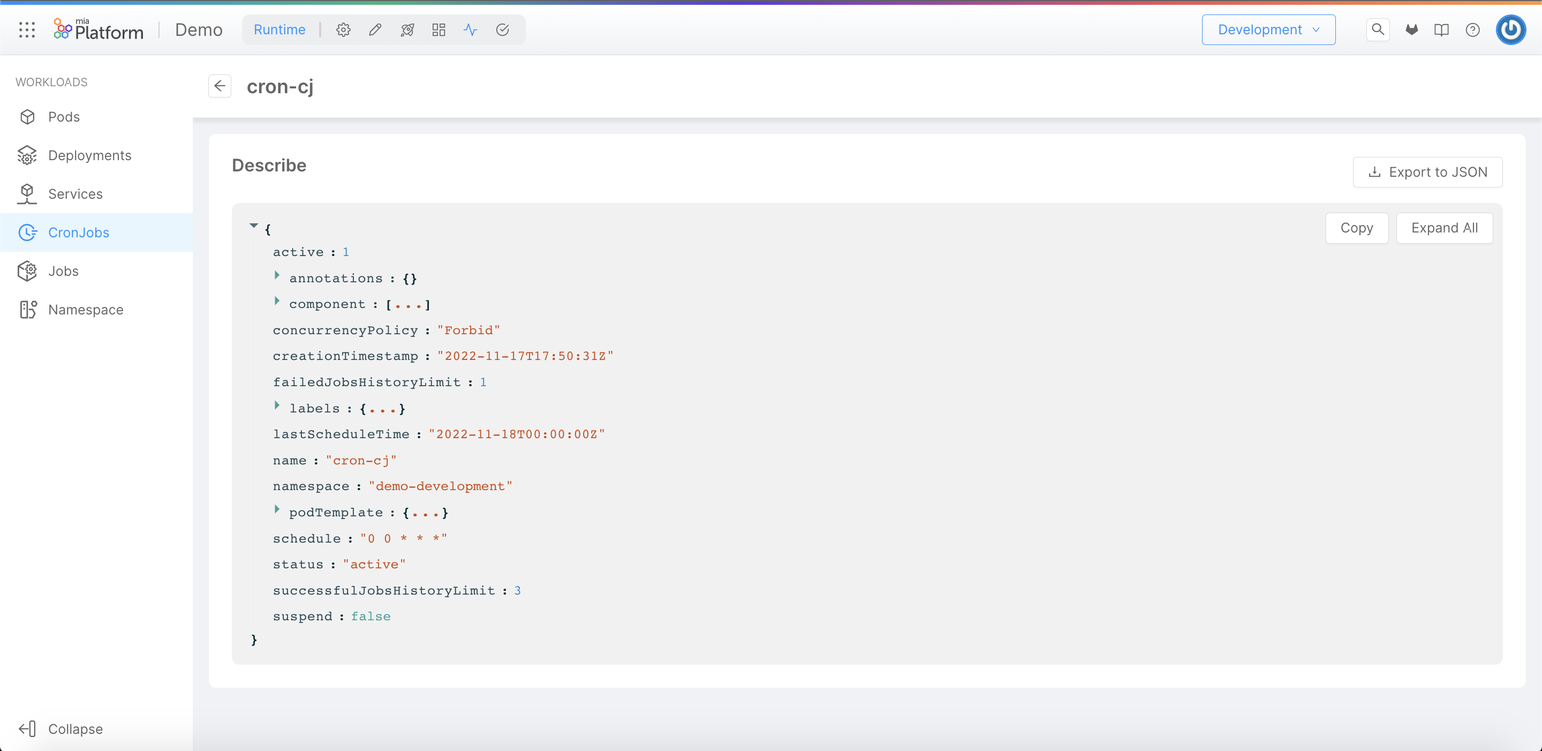
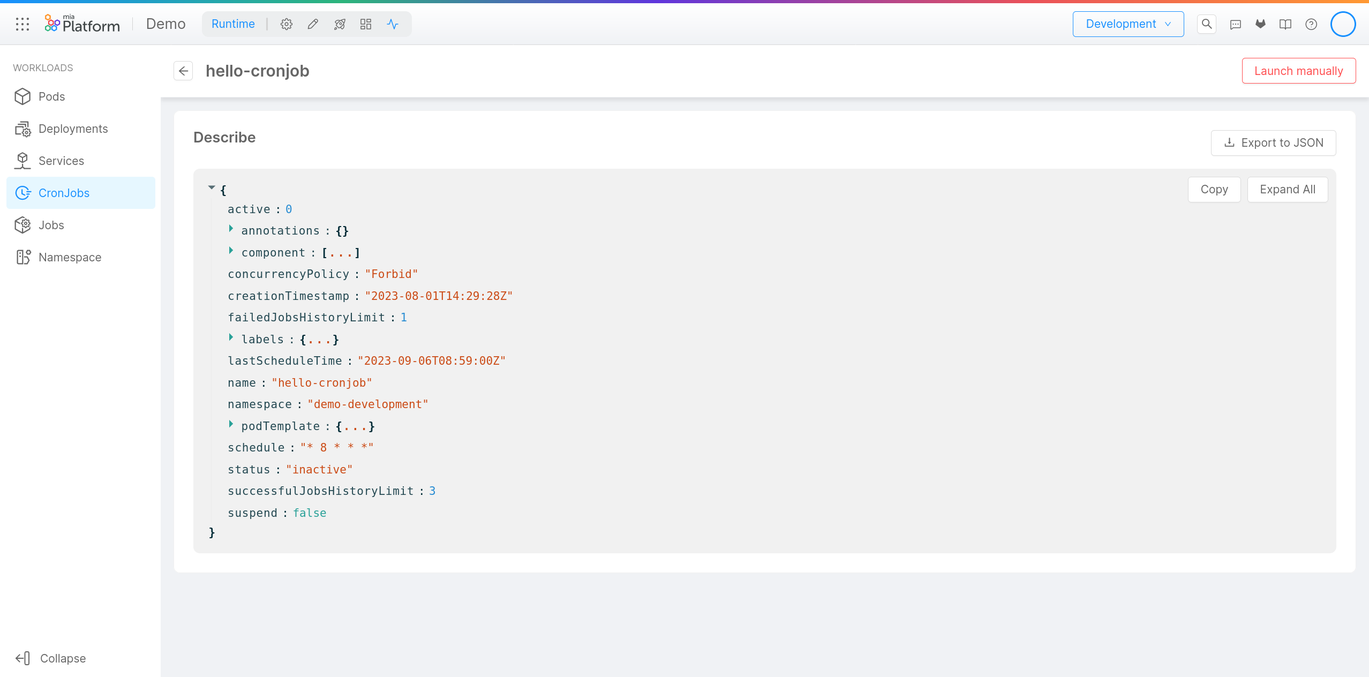
add burger menu options, add missing job permissions

diff --git a/docs/development_suite/identity-and-access-management/console-levels-and-permission-management.md b/docs/development_suite/identity-and-access-management/console-levels-and-permission-management.md
@@ -1,9 +1,10 @@
 ---
 id: console-levels-and-permission-management
-title:  Console levels and permission management
+title: Console levels and permission management
 sidebar_label: Console Levels and Permission Management
 ---
-Having the ability to assign specific permissions and roles to each [Identity](/development_suite/identity-and-access-management/overview.md#identity-and-access-management) that has access to the system in a detailed way is a key point in defining responsibilities within your platform ecosystem. 
+
+Having the ability to assign specific permissions and roles to each [Identity](/development_suite/identity-and-access-management/overview.md#identity-and-access-management) that has access to the system in a detailed way is a key point in defining responsibilities within your platform ecosystem.
 The Mia-Platform Console allows for assigning specific levels of access to various system resources through a configuration system based on hierarchical levels.  
 Let's see how the different levels are organized.
 
@@ -27,91 +28,92 @@ The permissions assigned to a user at a higher hierarchical level are inherited 
 
 Identities can perform a set of predetermined actions along Console levels, in accordance with a set of permissions grouped for each specific role. A brief presentation of the default roles that can be assigned to each identity is provided here below:
 
-* `Company Owner`: A Company Owner has the ability to manage Company users and service accounts, and has full administrative capabilities on all the Projects (and Runtime Environments) within the Company
-* `Project Administrator`: A Project Administrator is able to manage identities and all other aspects of a Project, thus being able to perform any actions on all the Runtime Environments of the Project as well
-* `Maintainer`: A Maintainer can edit both Project configuration and Runtime Environments
-* `Developer`: A Developer can edit Project configuration and view Runtime Environments
-* `Reporter`: A Reporter can view Project configuration and Runtime Environments
-* `Guest`: A Guest has restricted access to data and can only view basic information for a selected subset of resources
+- `Company Owner`: A Company Owner has the ability to manage Company users and service accounts, and has full administrative capabilities on all the Projects (and Runtime Environments) within the Company
+- `Project Administrator`: A Project Administrator is able to manage identities and all other aspects of a Project, thus being able to perform any actions on all the Runtime Environments of the Project as well
+- `Maintainer`: A Maintainer can edit both Project configuration and Runtime Environments
+- `Developer`: A Developer can edit Project configuration and view Runtime Environments
+- `Reporter`: A Reporter can view Project configuration and Runtime Environments
+- `Guest`: A Guest has restricted access to data and can only view basic information for a selected subset of resources
 
 Roles can be assigned at three levels regarding the following Console resources:
 
-* Company
-* Project
-* Runtime Environments
+- Company
+- Project
+- Runtime Environments
 
 Roles can be assigned at Company level from the IAM portal of the Company Overview section.
-  
+
 The following table describes the capabilities and how they are mapped on the default roles.
 
-|              Capabilities                                                  | Permissions key                                        | Guest  | Reporter | Developer | Maintainer | Project Administrator | Company Owner |
-|------------------------------------------------------------------------|--------------------------------------------------------|--------|----------|-----------|------------|-----------------------|---------------|
-| View Company basic information                                         | `console.company.view`                                 | ✅     | ✅       | ✅        | ✅         | ✅                    | ✅            |
-| Edit Company information                                               | `console.company.details.update`                       |        |          |           |            |                       | ✅            |
-| Create Projects inside this Company                                    | `console.company.project.create`                       |        |          |           |            |                       | ✅            |
-| View all Projects of this Company                                      | `console.company.project.view`                         |        | ✅       | ✅        | ✅         | ✅                    | ✅            |
-| View all Environments in all Projects of this Company                  | `console.company.project.environment.view`             |        | ✅       | ✅        | ✅         | ✅                    | ✅            |
-| Create a service repository in all Projects of this Company            | `console.company.project.service.repository.create`    |        |          | ✅        | ✅         | ✅                    | ✅            |
-| Commit changes on all Project configurations of this Company           | `console.company.project.configuration.update`         |        |          | ✅        | ✅         | ✅                    | ✅            |
-| Manage secreted environment variables for all Projects of this Company | `console.company.project.secreted_variables.manage`    |        |          |           |            | ✅                    | ✅            |
-| Trigger deploy on all Environments of all Projects of this Company     | `console.company.project.environment.deploy.trigger`   |        |          |           | ✅         | ✅                    | ✅            |
-| Restart Pods on all Environments of all Projects of this Company       | `console.company.project.environment.k8s.pod.delete`   |        |          |           | ✅         | ✅                    | ✅            |
-| Delete Jobs on all Environments of all Projects of this Company       | `console.company.project.environment.k8s.job.delete`   |        |          |           | ✅         | ✅                    | ✅            |
-| Create Jobs on all Environments of all Projects of this Company       | `console.company.project.environment.k8s.job.create`   |        |          |           | ✅         | ✅                    | ✅            |
-| Manage dashboards on all Projects of this Company                      | `console.company.project.environment.dashboard.manage` |        |          |           |            | ✅                    | ✅            |
-| Manage Identities of this Company                                      | `console.company.users.manage`                         |        |          |           |            |                       | ✅            |
-| Edit Project information of all Projects of this Company               | `console.company.project.details.update`               |        |          |           |            | ✅                    | ✅            |
-| Manage Identities of all Projects of this Company                      | `console.company.project.users.manage`                 |        |          |           |            | ✅                    |               |
-| Delete this Company                                                    | `console.company.delete`                               |        |          |           |            |                       | ✅            |
-| Delete all Projects of this Company                                    | `console.company.project.delete`                       |        |          |           |            | ✅                    | ✅            |
-| Manage Providers of this Company                                       | `console.company.providers.manage`                     |        |          |           |            |                       | ✅            |
-| View Company Providers information                                     | `console.company.providers.view`                       | ✅     | ✅       | ✅        | ✅         | ✅                    | ✅            |
-| Manage Clusters for this Company                                       | `console.company.cluster.manage`                       |        |          |           |            |                       | ✅            |
-| View Company Clusters information                                      | `console.company.cluster.view`                         | ✅     | ✅       | ✅        | ✅         | ✅                    | ✅            |
-| Manage Company Project Templates                                       | `console.company.templates.manage`                     |        |          |           |            |                       | ✅            |
-| Manage Company Views in Design Overview                                | `console.company.configuration.views.manage`                          |        |           |          |              |  ✅  |  ✅  |
-| Manage Marketplace resources owned exclusively by the Company                                     | `console.company.marketplace.manage`                          |        |           |          |              |  ✅ |  ✅  |
+| Capabilities                                                           | Permissions key                                         | Guest | Reporter | Developer | Maintainer | Project Administrator | Company Owner |
+| ---------------------------------------------------------------------- | ------------------------------------------------------- | ----- | -------- | --------- | ---------- | --------------------- | ------------- |
+| View Company basic information                                         | `console.company.view`                                  | ✅    | ✅       | ✅        | ✅         | ✅                    | ✅            |
+| Edit Company information                                               | `console.company.details.update`                        |       |          |           |            |                       | ✅            |
+| Create Projects inside this Company                                    | `console.company.project.create`                        |       |          |           |            |                       | ✅            |
+| View all Projects of this Company                                      | `console.company.project.view`                          |       | ✅       | ✅        | ✅         | ✅                    | ✅            |
+| View all Environments in all Projects of this Company                  | `console.company.project.environment.view`              |       | ✅       | ✅        | ✅         | ✅                    | ✅            |
+| Create a service repository in all Projects of this Company            | `console.company.project.service.repository.create`     |       |          | ✅        | ✅         | ✅                    | ✅            |
+| Commit changes on all Project configurations of this Company           | `console.company.project.configuration.update`          |       |          | ✅        | ✅         | ✅                    | ✅            |
+| Manage secreted environment variables for all Projects of this Company | `console.company.project.secreted_variables.manage`     |       |          |           |            | ✅                    | ✅            |
+| Trigger deploy on all Environments of all Projects of this Company     |  `console.company.project.environment.deploy.trigger`   |       |          |           | ✅         | ✅                    | ✅            |
+| Restart Pods on all Environments of all Projects of this Company       | `console.company.project.environment.k8s.pod.delete`    |       |          |           | ✅         | ✅                    | ✅            |
+| Delete Jobs on all Environments of all Projects of this Company        | `console.company.project.environment.k8s.job.delete`    |       |          |           | ✅         | ✅                    | ✅            |
+| Create Jobs on all Environments of all Projects of this Company        | `console.company.project.environment.k8s.job.create`    |       |          |           | ✅         | ✅                    | ✅            |
+| Manage dashboards on all Projects of this Company                      |  `console.company.project.environment.dashboard.manage` |       |          |           |            | ✅                    | ✅            |
+| Manage Identities of this Company                                      | `console.company.users.manage`                          |       |          |           |            |                       | ✅            |
+| Edit Project information of all Projects of this Company               | `console.company.project.details.update`                |       |          |           |            | ✅                    | ✅            |
+| Manage Identities of all Projects of this Company                      | `console.company.project.users.manage`                  |       |          |           |            | ✅                    |               |
+| Delete this Company                                                    | `console.company.delete`                                |       |          |           |            |                       | ✅            |
+| Delete all Projects of this Company                                    | `console.company.project.delete`                        |       |          |           |            | ✅                    | ✅            |
+| Manage Providers of this Company                                       | `console.company.providers.manage`                      |       |          |           |            |                       | ✅            |
+| View Company Providers information                                     | `console.company.providers.view`                        | ✅    | ✅       | ✅        | ✅         | ✅                    | ✅            |
+| Manage Clusters for this Company                                       | `console.company.cluster.manage`                        |       |          |           |            |                       | ✅            |
+| View Company Clusters information                                      | `console.company.cluster.view`                          | ✅    | ✅       | ✅        | ✅         | ✅                    | ✅            |
+| Manage Company Project Templates                                       | `console.company.templates.manage`                      |       |          |           |            |                       | ✅            |
+| Manage Company Views in Design Overview                                | `console.company.configuration.views.manage`            |       |          |           |            | ✅                    | ✅            |
+| Manage Marketplace resources owned exclusively by the Company          | `console.company.marketplace.manage`                    |       |          |           |            | ✅                    | ✅            |
 
 User roles are manageable from CMS by **Console Super Users**, which are particular Console Administrators having access to the Console CMS and thus being able to manage the entire Console, including Companies, Projects and the Marketplace.
 
 :::info
 Please note that, inside Project IAM portal, only those identities on which a Company role has previously been assigned are shown.  
-For each of them, therefore, the permissions inherited from the Company role assignment at the Company level will be visible. In this way, it will be possible to identify which additional permissions among those mentioned in the following table can be assigned at Project and Runtime Environments levels. 
+For each of them, therefore, the permissions inherited from the Company role assignment at the Company level will be visible. In this way, it will be possible to identify which additional permissions among those mentioned in the following table can be assigned at Project and Runtime Environments levels.
 :::
 
-|              Capabilities                         | Permissions key                                | Guest  | Reporter | Developer | Maintainer | Project Administrator | Company Owner |
-|---------------------------------------------------|------------------------------------------------|--------|----------|-----------|------------|-----------------------|---------------|
-| View Project basic information                    | `console.project.view`                         | ✅     | ✅       | ✅        | ✅         | ✅                    |               |
-| View all Environments of this Project             | `console.project.environment.view`             |        | ✅       | ✅        | ✅         | ✅                    |               |
-| View this Environment of the Project              | `console.environment.view`                     |        | ✅       |           | ✅         |                       |               |
-| Create a service repository for this Project      | `console.project.service.repository.create`    |        |          | ✅        | ✅         | ✅                    |               |
-| Commit changes on Project configuration           | `console.project.configuration.update`         |        |          | ✅        | ✅         | ✅                    |               |
-| Edit Project information                          | `console.project.details.update`               |        |          |           |            | ✅                    | ✅            |
-| Manage secreted environment variables             | `console.project.secreted_variables.manage`    |        |          |           |            | ✅                    |               |
-| Trigger deploy on any Environment of this Project | `console.project.environment.deploy.trigger`   |        |          |           | ✅         | ✅                    |               |
-| Trigger deploy on this specific Environment       | `console.environment.deploy.trigger`           |        |          |           | ✅         |                       |               |
-| Restart pods on any Project Environment           | `console.project.environment.k8s.pod.delete`   |        |          |           | ✅         | ✅                    |               |
-| Delete Jobs on any Project Environment           | `console.project.environment.k8s.job.delete`   |        |          |           | ✅         | ✅                    |               |
-| Create Jobs on any Project Environment           | `console.project.environment.k8s.job.create`   |        |          |           | ✅         | ✅                    |               |
-| Restart pods on this specific Environment         | `console.environment.k8s.pod.delete`           |        |          |           | ✅         |                       |               |
-| Manage dashboards on any Project Environment      | `console.project.environment.dashboard.manage` |        |          |           |            | ✅                    |               |
-| Manage dashboards on this specific Environment    | `console.environment.dashboard.manage`         |        |          |           |            |                       |               |
-| Manage identities for this Project                | `console.project.users.manage`                 |        |          |           |            | ✅                    |               |
-| Delete a single Project                           | `console.project.delete`                       |        |          |           |            |                       | ✅            |
-
+| Capabilities                                      | Permissions key                                | Guest | Reporter | Developer | Maintainer | Project Administrator | Company Owner |
+| ------------------------------------------------- | ---------------------------------------------- | ----- | -------- | --------- | ---------- | --------------------- | ------------- |
+| View Project basic information                    | `console.project.view`                         | ✅    | ✅       | ✅        | ✅         | ✅                    |               |
+| View all Environments of this Project             | `console.project.environment.view`             |       | ✅       | ✅        | ✅         | ✅                    |               |
+| View this Environment of the Project              | `console.environment.view`                     |       | ✅       |           | ✅         |                       |               |
+| Create a service repository for this Project      | `console.project.service.repository.create`    |       |          | ✅        | ✅         | ✅                    |               |
+| Commit changes on Project configuration           | `console.project.configuration.update`         |       |          | ✅        | ✅         | ✅                    |               |
+| Edit Project information                          | `console.project.details.update`               |       |          |           |            | ✅                    | ✅            |
+| Manage secreted environment variables             | `console.project.secreted_variables.manage`    |       |          |           |            | ✅                    |               |
+| Trigger deploy on any Environment of this Project | `console.project.environment.deploy.trigger`   |       |          |           | ✅         | ✅                    |               |
+| Trigger deploy on this specific Environment       | `console.environment.deploy.trigger`           |       |          |           | ✅         |                       |               |
+| Restart pods on any Project Environment           | `console.project.environment.k8s.pod.delete`   |       |          |           | ✅         | ✅                    |               |
+| Delete Jobs on any Project Environment            | `console.project.environment.k8s.job.delete`   |       |          |           | ✅         | ✅                    |               |
+| Create Jobs on any Project Environment            | `console.project.environment.k8s.job.create`   |       |          |           | ✅         | ✅                    |               |
+| Delete Jobs on this specific Environment          | `console.environment.k8s.job.delete`           |       |          |           | ✅         |                       |
+| Create Jobs on this specific Environment          | `console.environment.k8s.job.create`           |       |          |           | ✅         |                       |
+| Restart pods on this specific Environment         | `console.environment.k8s.pod.delete`           |       |          |           | ✅         |                       |               |
+| Manage dashboards on any Project Environment      | `console.project.environment.dashboard.manage` |       |          |           |            | ✅                    |               |
+| Manage dashboards on this specific Environment    | `console.environment.dashboard.manage`         |       |          |           |            |                       |               |
+| Manage identities for this Project                | `console.project.users.manage`                 |       |          |           |            | ✅                    |               |
+| Delete a single Project                           | `console.project.delete`                       |       |          |           |            |                       | ✅            |
 
 ### Console Root level permissions
 
 User roles and permissions are manageable from CMS by **Console Super Users**, which are particular Console Administrators having access to the Console CMS and thus being able to perform actions at Console root level.
 
 :::info
-Note that Console Super User is NOT included as a default role. Consequently, it can not be assigned from the IAM portal, as it performs actions exclusively at Console root level. 
+Note that Console Super User is NOT included as a default role. Consequently, it can not be assigned from the IAM portal, as it performs actions exclusively at Console root level.
 :::
 
 The following table describes the manageable privileges at Console root level that are granted to Console Administrators:
 
-| Capabilities | Permissions key |
-|--------------|-----------------|
+| Capabilities                                    | Permissions key                       |
+| ----------------------------------------------- | ------------------------------------- |
 | Create a new Company                            | `console.root.company.create`         |
 | Delete any Company                              | `console.root.company.delete`         |
 | Create a new Project                            | `console.root.project.create`         |
@@ -130,15 +132,15 @@ The following table describes the manageable privileges at Console root level th
 Suppose you have a feature team composed by: 1 _Project Manager_ and 1 _Technical Leader_, 1 _Senior Developer_ and 2 _Junior Developers_ and 2 _Designers_.
 This team works on a single Project with two environments:
 
- 1. Production, on which only the _Project Manager_, the _Technical Leader_ and _Senior Developer_ can perform actions, and
- 1. Development on which the 2 _Junior Developers_ can perform actions, too.
+1.  Production, on which only the _Project Manager_, the _Technical Leader_ and _Senior Developer_ can perform actions, and
+1.  Development on which the 2 _Junior Developers_ can perform actions, too.
 
 What you might want could be a similar role Binding organization:
 
-* The _Project Manager_ and the _Technical Leader_ may want to have full access to the Project so they can be assigned the _Project Administrator_ role on the Project resource
-* The _Designers_ should be able to access the Project but they cannot perform any editing action on it, so they can be assigned the _Reporter_ role on the Project resource
-* The _Senior Developers_ can be assigned the _Maintainer_ role on the Project
-* The _Junior Developers_ can be assigned the _Developer_ role on the Project resource and then can be assigned the _Maintainer_ role only on the Development environment
+- The _Project Manager_ and the _Technical Leader_ may want to have full access to the Project so they can be assigned the _Project Administrator_ role on the Project resource
+- The _Designers_ should be able to access the Project but they cannot perform any editing action on it, so they can be assigned the _Reporter_ role on the Project resource
+- The _Senior Developers_ can be assigned the _Maintainer_ role on the Project
+- The _Junior Developers_ can be assigned the _Developer_ role on the Project resource and then can be assigned the _Maintainer_ role only on the Development environment
 
 #### Assigning roles on resources
 

diff --git a/docs/development_suite/monitoring/resources/cronjobs.md b/docs/development_suite/monitoring/resources/cronjobs.md
@@ -6,7 +6,7 @@ slug: "/development_suite/monitoring/resources/cronjobs"
 ---
 
 In Kubernetes, a [CronJob](https://kubernetes.io/docs/concepts/workloads/controllers/cron-jobs/) creates Jobs on a predefined time schedule.  
-CronJob is meant for performing regular scheduled actions such as backups, report generation, and so on. One CronJob object is like one line of a crontab (cron table) file on a Unix system. 
+CronJob is meant for performing regular scheduled actions such as backups, report generation, and so on. One CronJob object is like one line of a crontab (cron table) file on a Unix system.
 It runs a Job periodically on a given schedule, written in Cron format.
 
 ## CronJobs Table
@@ -15,7 +15,7 @@ The table presented here shows the following information:
 
 - **Name**: the name of the CronJob.
 - **Schedule**: the schedule in Cron format.
-- **Suspend**: the value of the [suspend](https://kubernetes.io/docs/concepts/workloads/controllers/cron-jobs/) CronJob spec. When `true` the scheduled execution is suspended. 
+- **Suspend**: the value of the [suspend](https://kubernetes.io/docs/concepts/workloads/controllers/cron-jobs/) CronJob spec. When `true` the scheduled execution is suspended.
 - **Active**: the number of currently running Jobs.
 - **Last Schedule**: information of when was the last time the Job was successfully scheduled. [Manually launched](#manually-launching-a-cronjob) CronJobs won't update this field.
 - **Age**: the date when the CronJob was lastly deployed.
@@ -25,6 +25,10 @@ The table presented here shows the following information:
 ### CronJob options menu
 
 The _Hamburger Menu_, located on the last column of the job, allows to perform some actions on a CronJob.
+The available options are:
+
+- [Launch manually](#manually-launching-a-cronjob)
+- [View describe](#cronjob-describe)
 
 ![cronjobs_burger_menu](../img/cronjobs_burger_menu.png)
 
@@ -42,6 +46,12 @@ These details are the ones exposed by the [Kubernetes APIs](https://kubernetes.i
 By clicking on the _Launch manually_ button on the upper right side of the page you can trigger an immediate manual execution of the CronJob, as described in the next section here below.
 
 ## Manually launching a CronJob
+
+:::info
+
+This feature is only available to users with sufficient permissions. For more information, consult the [Console Levels and Permission Management](/development_suite/identity-and-access-management/console-levels-and-permission-management.md) section of the docs.
+
+:::
 
 The _Launch manually_ functionality triggers an immediate execution of the CronJob, regardless of its _Schedule_ and _Suspend_ values.
 
